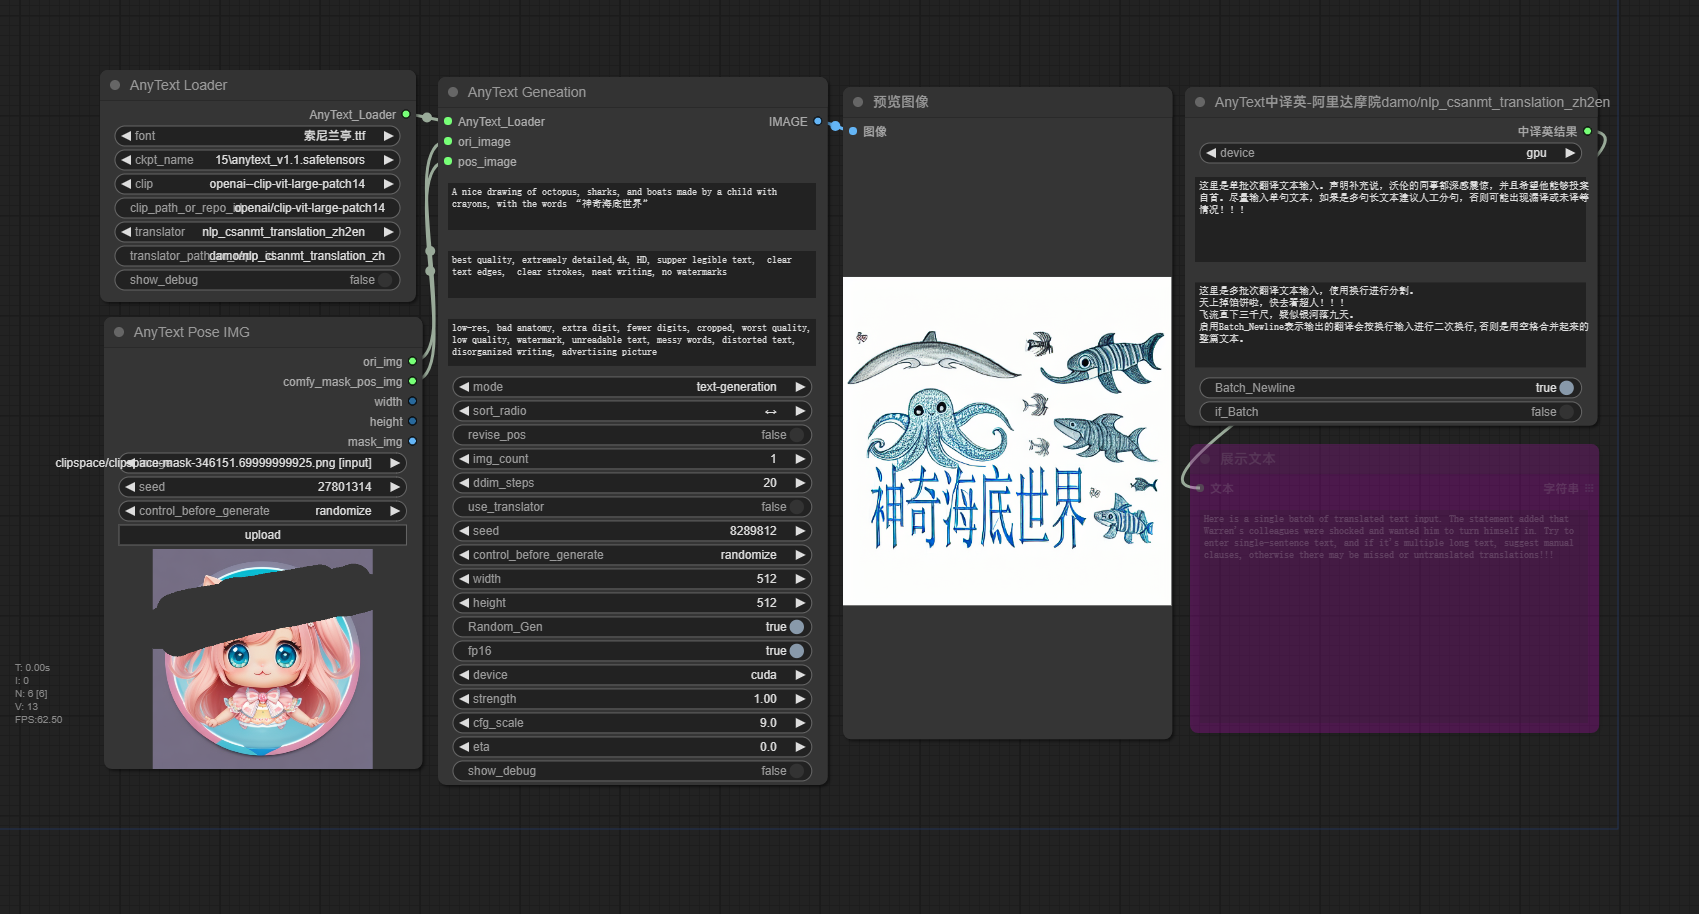
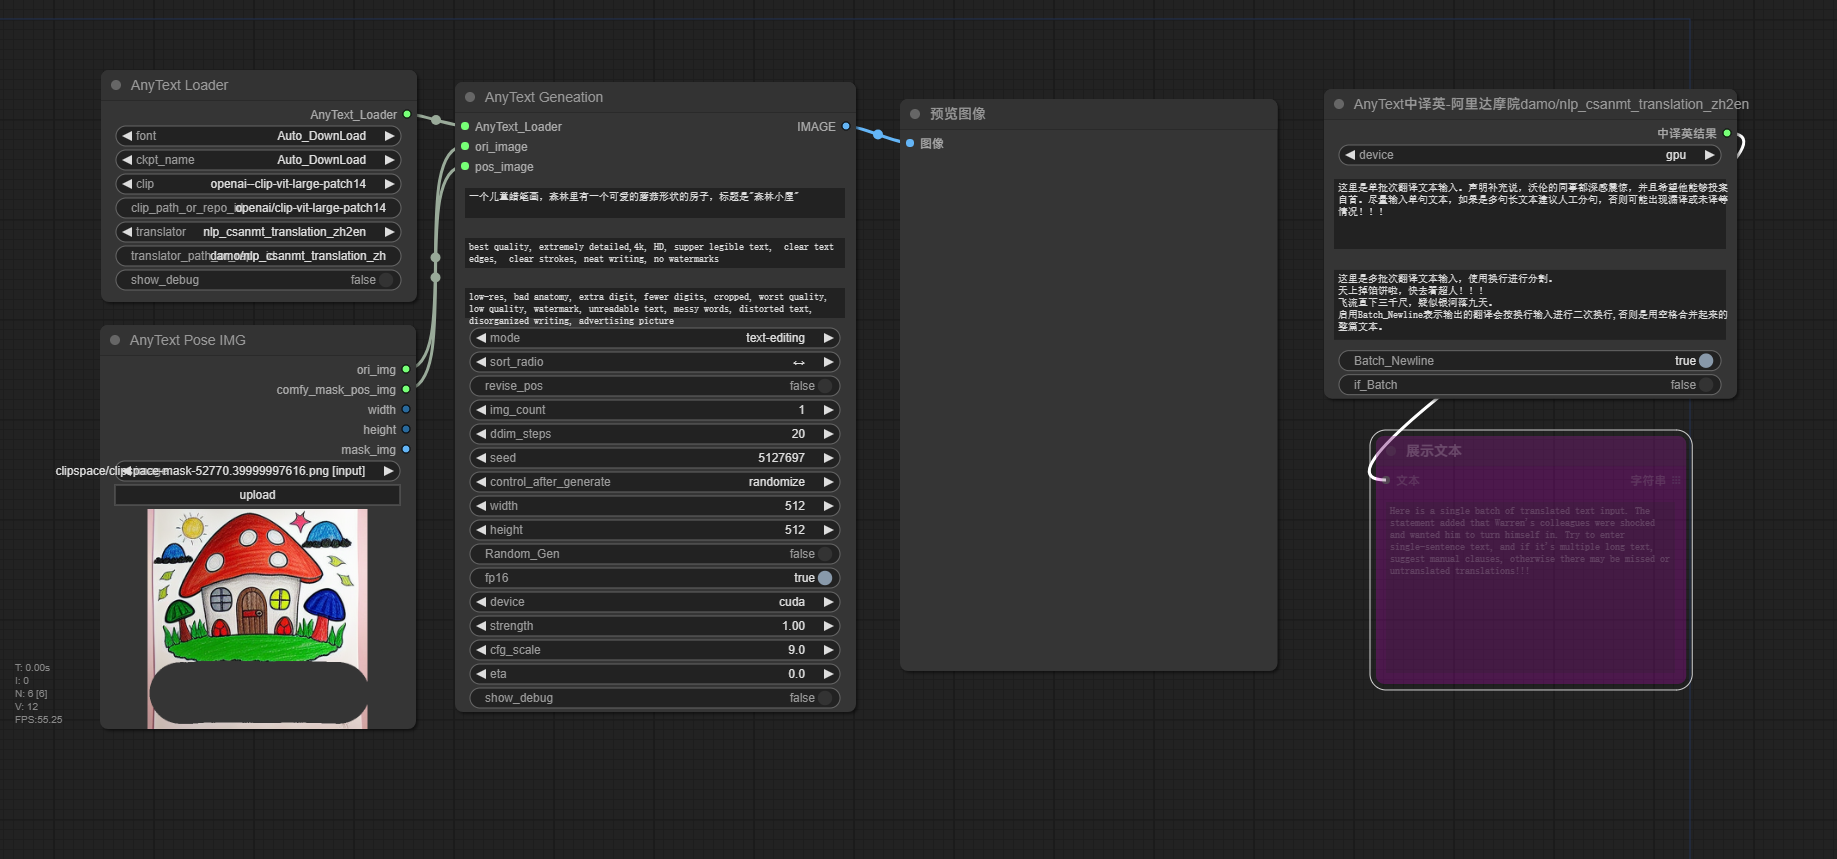
Auto load translator with Chinese_prompts.中文提示词自动加载翻译。

diff --git a/AnyText/nodes.py b/AnyText/nodes.py
@@ -27,7 +27,6 @@ class AnyText:
                 "revise_pos": ("BOOLEAN", {"default": False}),
                 "img_count": ("INT", {"default": 1, "min": 1, "max": 10}),
                 "ddim_steps": ("INT", {"default": 20, "min": 1, "max": 100}),
-                "use_translator": ("BOOLEAN", {"default": False}),
                 "seed": ("INT", {"default": 9999, "min": -1, "max": 99999999}),
                 "width": ("INT", {"default": 512, "min": 128, "max": 1920, "step": 64}),
                 "height": ("INT", {"default": 512, "min": 128, "max": 1920, "step": 64}),
@@ -78,7 +77,6 @@ class AnyText:
         device,
         prompt, 
         show_debug, 
-        use_translator,
         img_count, 
         fp16,
         ddim_steps=20, 
@@ -91,6 +89,19 @@ class AnyText:
         width=512, 
         height=512,
     ):
+        def replace_between(s, start, end, replacement):
+            # 正则表达式，用以匹配从start到end之间的所有字符
+            pattern = r"%s(.*?)%s" % (re.escape(start), re.escape(end))
+            # 使用re.DOTALL标志来匹配包括换行在内的所有字符
+            return re.sub(pattern, replacement, s, flags=re.DOTALL)
+        
+        def prompt_replace(prompt):
+            #将中文符号“”中的所有内容替换为空内容，防止输入中文被检测到，从而加载翻译模型。
+            prompt = replace_between(prompt, "“", "”", "*")
+            prompt = prompt.replace('“', '"')
+            prompt = prompt.replace('”', '"')
+            return prompt
+        
         def check_overlap_polygon(rect_pts1, rect_pts2):
             poly1 = cv2.convexHull(rect_pts1)
             poly2 = cv2.convexHull(rect_pts2)
@@ -163,17 +174,25 @@ class AnyText:
         else:
             raise Exception(f"width and height must be multiple of 64(宽度和高度必须为64的倍数).")
         
-        if use_translator == True:
-            #如果启用中译英，则提前判断本地是否存在翻译模型，没有则自动下载，以防跑半路报错。
+        if not is_module_imported('AnyText_Pipeline'):
+            from .AnyText_scripts.AnyText_pipeline import AnyText_Pipeline
+        
+        #check if prompt is chinese to decide whether to load translator，检测是否为中文提示词，否则不适用翻译。
+        prompt_modify = prompt_replace(prompt)
+        bool_is_chinese = AnyText_Pipeline.is_chinese(self, prompt_modify)
+        
+        if bool_is_chinese == False:
+            use_translator = False
+        else:
+            use_translator = True
             if os.access(os.path.join(folder_paths.models_dir, "prompt_generator", "nlp_csanmt_translation_zh2en", "tf_ckpts", "ckpt-0.data-00000-of-00001"), os.F_OK):
                 pass
             else:
                 snapshot_download('damo/nlp_csanmt_translation_zh2en', revision='v1.0.1')
+        
         if device == 'cpu' or fp16 == False:
-            print("\033[93mOnly works with CUDA+FP16 for now in this node(本插件暂时只支持CUDA+FP16).\033[0m")
-            
-        if not is_module_imported('AnyText_Pipeline'):
-            from .AnyText_scripts.AnyText_pipeline import AnyText_Pipeline
+            print("\033[93mOnly works with CUDA+FP16 for now in this node(本插件目前只支持CUDA+FP16).\033[0m")
+        
         loader_out = AnyText_Loader.split("|")
         pipe = AnyText_Pipeline(ckpt_path=loader_out[1], clip_path=loader_out[2], translator_path=loader_out[3], cfg_path=loader_out[4], use_translator=use_translator, device=device, use_fp16=fp16)
         
@@ -224,7 +243,7 @@ class AnyText:
                     \033[93mclip model(clip模型)--loader_out[2]: {loader_out[2]}, \033[0m\n \
                     \033[93mTranslator(翻译模型)--loader_out[3]: {loader_out[3]}, \033[0m\n \
                     \033[93myaml_file(yaml配置文件): {loader_out[4]}, \033[0m\n) \
-                    \033[93mChinese2English translator(中译英): {use_translator}, \033[0m\n \
+                    \033[93mIs Chinese Input(是否中文输入): {use_translator}, \033[0m\n \
                     \033[93mNumber of text-content to generate(需要生成的文本数量): {n_lines}, \033[0m\n \
                     \033[93mpos_image location(遮罩图位置): {pos_image}, \033[0m\n \
                     \033[93mori_image location(原图位置): {ori_image}, \033[0m\n \

diff --git a/README.md b/README.md
@@ -10,6 +10,7 @@
 ### v2 test, more native, not remote_code mode.
 
 ## Instructions:
+- Input_prompts will be checked if there is Chinese_text generate to decide whether auto load translator or not. If input_prompts is English but want to generate Chinese_text, then the Chinese_text must in the（Full-width characters）`(“”)` , not（Half-width characters）`("")`.
 - Numbers of draw_masks must >= nunbers of string_content (in the "") we want to generate, or it will raise an error ["not enough values to unpack"](https://github.com/zmwv823/ComfyUI-AnyText/issues/7).
 - works on my pc: ComfyUI official release+(ComfyUI_windows_portable\ComfyUI)start with powershell+python_embed+win10+py311+torch2.3.0+cu121+rtx3050laptop(4GB).
 - pillow>=9.5.0(10.3.0) Most packages are the newest.
@@ -24,11 +25,11 @@
 - **The AnyText model itself is also a standard sd1.5 text2image model.**
 ## Example Prompts:
 ### Text-Generation English Prompts:
-- An exquisite mug with an ancient Chinese poem engraved on it, including  "花落知多少" and "夜来风雨声" and "处处闻啼鸟" and "春眠不觉晓"
-- Sign on the clean building that reads "科学" and "과학"  and "ステップ" and "SCIENCE"
+- An exquisite mug with an ancient Chinese poem engraved on it, including  “花落知多少” and “夜来风雨声” and “处处闻啼鸟” and “春眠不觉晓”
+- Sign on the clean building that reads “科学” and "과학"  and "ステップ" and "SCIENCE"
 - An ice sculpture is made with the text "Happy" and "Holidays".Dslr photo.
-- A baseball cap with words "要聪明地" and "全力以赴"
-- A nice drawing of octopus, sharks, and boats made by a child with crayons, with the words "神奇海底世界"
+- A baseball cap with words “要聪明地” and “全力以赴”
+- A nice drawing of octopus, sharks, and boats made by a child with crayons, with the words “神奇海底世界”
 ### Text-Editing English Prompts:
 - A Minion meme that says "wrong"
 - A pile of fruit with "UIT" written in the middle

diff --git a/AnyText/assets/README-Zh-CN.md b/AnyText/assets/README-Zh-CN.md
@@ -10,6 +10,7 @@
 ### v2测试，更加本地化，非远程代码模式。
 
 ## 使用说明:
+- 自动检测提示词是否中文，来决定是否自动加载翻译。如果使用英文提示词生成中文文本，要生成的中文文本必须在(全角字符)`(“”)`里面，不能是(半角字符)`("")`。
 - 手绘遮罩数量必须>=你想生成文字的数量，每一个“”代表一个文字数量，“”里面内容不限长度,否则会报错 ["not enough values to unpack"](https://github.com/zmwv823/ComfyUI-AnyText/issues/7).
 - 个人电脑环境: ComfyUI官方整合包+(ComfyUI_windows_portable\ComfyUI下)脚本运行+python_embed+win10+py311+torch2.3.0+cu121+rtx3050laptop(4GB).
 - pillow>=9.5.0(10.3.0)大部分包都是最新版本。
@@ -27,11 +28,11 @@
 
 ## 示例提示词:
 ### 文本生成英文提示词：
-- An exquisite mug with an ancient Chinese poem engraved on it, including  "花落知多少" and "夜来风雨声" and "处处闻啼鸟" and "春眠不觉晓"
-- Sign on the clean building that reads "科学" and "과학"  and "ステップ" and "SCIENCE"
+- An exquisite mug with an ancient Chinese poem engraved on it, including  “花落知多少” and “夜来风雨声” and “处处闻啼鸟” and “春眠不觉晓”
+- Sign on the clean building that reads “科学” and "과학"  and "ステップ" and "SCIENCE"
 - An ice sculpture is made with the text "Happy" and "Holidays".Dslr photo.
-- A baseball cap with words "要聪明地" and "全力以赴"
-- A nice drawing of octopus, sharks, and boats made by a child with crayons, with the words "神奇海底世界"
+- A baseball cap with words “要聪明地” and “全力以赴”
+- A nice drawing of octopus, sharks, and boats made by a child with crayons, with the words “神奇海底世界”
 ### 文本编辑英文提示词
 - A Minion meme that says "wrong"
 - A pile of fruit with "UIT" written in the middle
